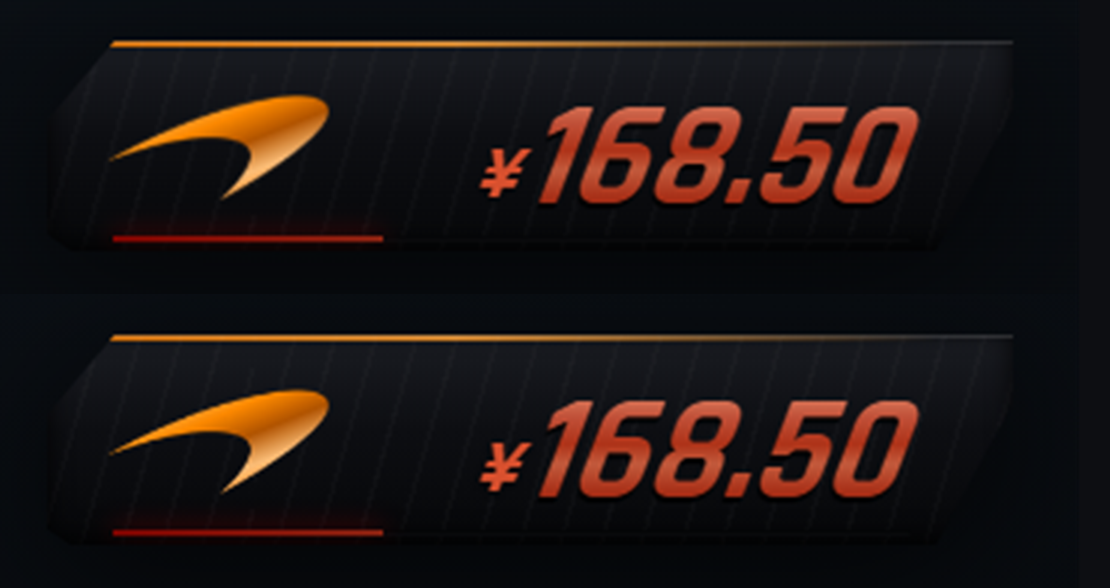
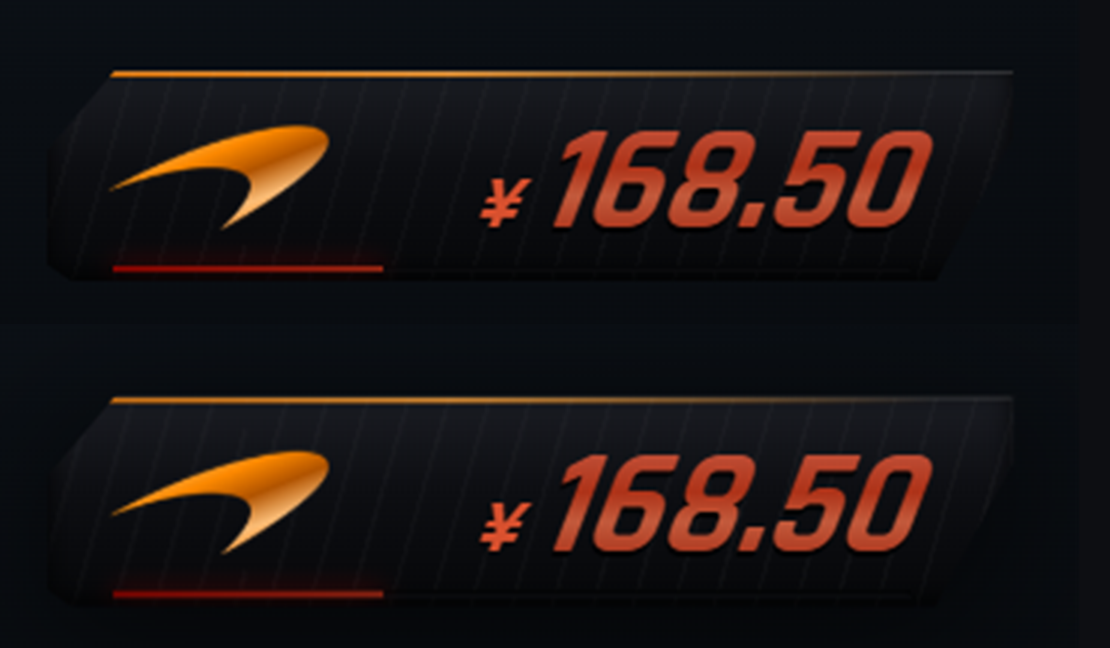
fix(digits): 挖到根因 —— 数字改用 SVG 渐变文字
根因不是数字元素本身，而是祖先元素：
  面板根部有 filter: drop-shadow(...) 和入场 transform，
  .g-num 还有 skewX(-21deg)。这些都会让子元素进入独立合成层，
  而 background-clip:text 在独立层里会被 Chromium 渲染成暗色。
  之前几轮只清数字元素自己的 filter/text-shadow，所以反复复发。

修法（两层保险）：
1. 数字改为 SVG <text> + <linearGradient> 填充，由 SVG 光栅化器绘制，
   完全不受祖先合成层影响（附敌对环境测试图 docs/digits-check.png）
2. 面板根部移除 filter 与入场 transform，只保留 opacity 过渡

防回归脚本升级：禁止 background-clip:text、要求 SVG 渐变、
禁止根部出现 filter/transform（对比注释内容会先剥离）

diff --git a/lib/client.js b/lib/client.js
@@ -1144,65 +1144,117 @@ window.__ModuleLoader__.load({
 		/* ------------------------------------------------------------------ */
 		/* 金额数字（金属质感）                                                */
 		/* ------------------------------------------------------------------ */
+		/*
+		 * 渲染方式：SVG <text> + <linearGradient> 填充。
+		 *
+		 * 为什么不用 background-clip:text：
+		 *   那个特性依赖「文字作为蒙版裁剪背景」的合成路径，只要任一祖先元素带
+		 *   filter / transform / opacity / 混合模式，Chromium 就会把它渲染成暗色
+		 *   甚至不可见。面板根部有投影 filter、.g-num 有 skew 变换，正好命中。
+		 *   SVG 的渐变填充由 SVG 光栅化器直接绘制，不受祖先合成影响。
+		 */
+		const SVG_NS = 'http://www.w3.org/2000/svg';
+		const AMOUNT_GRAD_ID = 'gGaugeAmountGrad';
+		const AMOUNT_STOPS = [
+		  ['0%', '#d97a5c'],
+		  ['18%', '#c05038'],
+		  ['40%', '#ad3218'],
+		  ['56%', '#c25a3c'],
+		  ['78%', '#a83018'],
+		  ['100%', '#8d1c0c'],
+		];
+
 		BADGE.elements.amount = {
 		  css(id) {
 		    return `
-		/* 数字完全不用 filter / text-shadow：
-		 * Chromium 在「background-clip:text + filter」组合下会把渐变文字渲染成暗色，
-		 * 阴影改由 ::before 复制一层暗色文字实现（偏移 1.5px，落在背后）。 */
 		#${id} .g-val {
 		  position: relative; display: inline-block;
-		  font-family: 'GaugeRacingCondensed', ui-sans-serif, system-ui, "Segoe UI", Arial, sans-serif;
-		  font-style: normal; font-weight: 700;
-		  font-size: 48px; line-height: .86;
-		  letter-spacing: -.2px;
+		  font-style: normal;
 		  padding-right: 4px;
-		  background: linear-gradient(180deg,
-		    #d97a5c 0%, #c05038 18%, #ad3218 40%,
-		    #c25a3c 56%, #a83018 78%, #8d1c0c 100%);
-		  -webkit-background-clip: text;
-		  background-clip: text;
-		  color: #c20800;
-		  -webkit-text-fill-color: transparent;
-		  text-shadow: none;
-		  filter: none;
 		}
-		#${id} .g-val::before {
-		  content: attr(data-v);
-		  position: absolute; left: 0; top: 1.5px;
-		  z-index: -1; pointer-events: none;
-		  background: none;
-		  color: rgba(0,0,0,.8);
-		  -webkit-text-fill-color: rgba(0,0,0,.8);
-		  text-shadow: none;
+		/* 用一份隐藏的文字占位，保证布局尺寸和字宽完全正确 */
+		#${id} .g-val-ghost {
+		  display: block; white-space: pre; visibility: hidden;
+		  font-family: 'GaugeRacingCondensed', ui-sans-serif, system-ui, "Segoe UI", Arial, sans-serif;
+		  font-weight: 700; font-size: 48px; line-height: .86; letter-spacing: -.2px;
 		}
-		/* 兜底：万一环境不支持 background-clip:text，退回实色，绝不显示成暗块 */
-		@supports not ((-webkit-background-clip: text) or (background-clip: text)) {
-		  #${id} .g-val {
-		    background: none;
-		    color: #d0432a;
-		    -webkit-text-fill-color: #d0432a;
-		  }
+		/* SVG 覆盖在占位文字之上：渐变直接由 SVG 画出来 */
+		#${id} .g-val-svg {
+		  position: absolute; left: 0; top: 0;
+		  width: 100%; height: 100%;
+		  overflow: visible; pointer-events: none;
 		}
+		#${id} .g-val-svg text {
+		  font-family: 'GaugeRacingCondensed', ui-sans-serif, system-ui, "Segoe UI", Arial, sans-serif;
+		  font-weight: 700; font-size: 48px; letter-spacing: -.2px;
+		  text-anchor: end;
+		}
+		#${id} .g-val-svg .g-num-shadow { fill: rgba(0,0,0,.8); }
+		#${id} .g-val-svg .g-num-main { fill: url(#${AMOUNT_GRAD_ID}); }
 		#${id}.g-dim .g-val { opacity: .45; }`;
 		  },
 
 		  mount(parts) {
-		    const el = document.createElement('span');
-		    el.className = 'g-val';
-		    el.textContent = '—';
-		    BADGE.numWrap(parts).appendChild(el);
-		    return el;
+		    const wrap = document.createElement('span');
+		    wrap.className = 'g-val';
+
+		    const ghost = document.createElement('span');
+		    ghost.className = 'g-val-ghost';
+		    ghost.textContent = '—';
+
+		    const svg = document.createElementNS(SVG_NS, 'svg');
+		    svg.setAttribute('class', 'g-val-svg');
+
+		    const defs = document.createElementNS(SVG_NS, 'defs');
+		    const grad = document.createElementNS(SVG_NS, 'linearGradient');
+		    grad.setAttribute('id', AMOUNT_GRAD_ID);
+		    grad.setAttribute('x1', '0');
+		    grad.setAttribute('y1', '0');
+		    grad.setAttribute('x2', '0');
+		    grad.setAttribute('y2', '1');
+		    for (const [offset, color] of AMOUNT_STOPS) {
+		      const stop = document.createElementNS(SVG_NS, 'stop');
+		      stop.setAttribute('offset', offset);
+		      stop.setAttribute('stop-color', color);
+		      grad.appendChild(stop);
+		    }
+		    defs.appendChild(grad);
+		    svg.appendChild(defs);
+
+		    const shadow = document.createElementNS(SVG_NS, 'text');
+		    shadow.setAttribute('class', 'g-num-shadow');
+		    const main = document.createElementNS(SVG_NS, 'text');
+		    main.setAttribute('class', 'g-num-main');
+		    svg.appendChild(shadow);
+		    svg.appendChild(main);
+
+		    wrap.appendChild(ghost);
+		    wrap.appendChild(svg);
+		    BADGE.numWrap(parts).appendChild(wrap);
+
+		    return { wrap, ghost, shadow, main };
 		  },
 
-		  update(el, view) {
+		  update(ref, view) {
 		    const text =
 		      view.state === 'ready' ? BADGE.formatAmount(view.total)
 		        : view.state === 'loading' ? '···'
 		          : '--';
-		    el.textContent = text;
-		    /* ::before 用它复制一份做投影 */
-		    el.dataset.v = text;
+
+		    ref.ghost.textContent = text;
+		    ref.shadow.textContent = text;
+		    ref.main.textContent = text;
+
+		    /* 基线位置按占位文字的实际高度推算，右对齐到容器右缘 */
+		    const place = () => {
+		      const h = ref.ghost.getBoundingClientRect().height || 41;
+		      const y = Math.round(h * 0.78);
+		      for (const t of [ref.shadow, ref.main]) t.setAttribute('x', '100%');
+		      ref.main.setAttribute('y', String(y));
+		      ref.shadow.setAttribute('y', String(y + 1.6));
+		    };
+		    place();
+		    requestAnimationFrame(place);
 		  },
 		};
 
@@ -1271,12 +1323,13 @@ window.__ModuleLoader__.load({
 		  z-index: 2147483000; user-select: none;
 		  cursor: grab; touch-action: none;
 		  font-family: ui-sans-serif, system-ui, "Segoe UI", "PingFang SC", "Microsoft YaHei", sans-serif;
-		  filter: drop-shadow(0 10px 24px rgba(0,0,0,.65));
-		  opacity: 0; transform: translateY(8px) scale(.97);
-		  transition: opacity .5s ease, transform .5s cubic-bezier(.2,.8,.2,1);
+		  opacity: 0;
+		  /* 注意：这里不能加 filter / transform —— 它们会让子元素进入独立合成层，
+		     历史上的「数字变暗」和「标志发灰」都是这个引起的 */
+		  transition: opacity .5s ease;
 		}
 		#${id}.g-on { opacity: 1; transform: none; }
-		#${id}.g-dragging { cursor: grabbing; filter: drop-shadow(0 16px 32px rgba(0,0,0,.8)); }
+		#${id}.g-dragging { cursor: grabbing; }
 
 		#${id} .g-content {
 		  position: absolute; inset: 0;

diff --git a/src/40-elements.js b/src/40-elements.js
@@ -61,65 +61,117 @@ BADGE.elements.currency = {
 /* ------------------------------------------------------------------ */
 /* 金额数字（金属质感）                                                */
 /* ------------------------------------------------------------------ */
+/*
+ * 渲染方式：SVG <text> + <linearGradient> 填充。
+ *
+ * 为什么不用 background-clip:text：
+ *   那个特性依赖「文字作为蒙版裁剪背景」的合成路径，只要任一祖先元素带
+ *   filter / transform / opacity / 混合模式，Chromium 就会把它渲染成暗色
+ *   甚至不可见。面板根部有投影 filter、.g-num 有 skew 变换，正好命中。
+ *   SVG 的渐变填充由 SVG 光栅化器直接绘制，不受祖先合成影响。
+ */
+const SVG_NS = 'http://www.w3.org/2000/svg';
+const AMOUNT_GRAD_ID = 'gGaugeAmountGrad';
+const AMOUNT_STOPS = [
+  ['0%', '#d97a5c'],
+  ['18%', '#c05038'],
+  ['40%', '#ad3218'],
+  ['56%', '#c25a3c'],
+  ['78%', '#a83018'],
+  ['100%', '#8d1c0c'],
+];
+
 BADGE.elements.amount = {
   css(id) {
     return `
-/* 数字完全不用 filter / text-shadow：
- * Chromium 在「background-clip:text + filter」组合下会把渐变文字渲染成暗色，
- * 阴影改由 ::before 复制一层暗色文字实现（偏移 1.5px，落在背后）。 */
 #${id} .g-val {
   position: relative; display: inline-block;
-  font-family: 'GaugeRacingCondensed', ui-sans-serif, system-ui, "Segoe UI", Arial, sans-serif;
-  font-style: normal; font-weight: 700;
-  font-size: 48px; line-height: .86;
-  letter-spacing: -.2px;
+  font-style: normal;
   padding-right: 4px;
-  background: linear-gradient(180deg,
-    #d97a5c 0%, #c05038 18%, #ad3218 40%,
-    #c25a3c 56%, #a83018 78%, #8d1c0c 100%);
-  -webkit-background-clip: text;
-  background-clip: text;
-  color: #c20800;
-  -webkit-text-fill-color: transparent;
-  text-shadow: none;
-  filter: none;
 }
-#${id} .g-val::before {
-  content: attr(data-v);
-  position: absolute; left: 0; top: 1.5px;
-  z-index: -1; pointer-events: none;
-  background: none;
-  color: rgba(0,0,0,.8);
-  -webkit-text-fill-color: rgba(0,0,0,.8);
-  text-shadow: none;
+/* 用一份隐藏的文字占位，保证布局尺寸和字宽完全正确 */
+#${id} .g-val-ghost {
+  display: block; white-space: pre; visibility: hidden;
+  font-family: 'GaugeRacingCondensed', ui-sans-serif, system-ui, "Segoe UI", Arial, sans-serif;
+  font-weight: 700; font-size: 48px; line-height: .86; letter-spacing: -.2px;
 }
-/* 兜底：万一环境不支持 background-clip:text，退回实色，绝不显示成暗块 */
-@supports not ((-webkit-background-clip: text) or (background-clip: text)) {
-  #${id} .g-val {
-    background: none;
-    color: #d0432a;
-    -webkit-text-fill-color: #d0432a;
-  }
+/* SVG 覆盖在占位文字之上：渐变直接由 SVG 画出来 */
+#${id} .g-val-svg {
+  position: absolute; left: 0; top: 0;
+  width: 100%; height: 100%;
+  overflow: visible; pointer-events: none;
 }
+#${id} .g-val-svg text {
+  font-family: 'GaugeRacingCondensed', ui-sans-serif, system-ui, "Segoe UI", Arial, sans-serif;
+  font-weight: 700; font-size: 48px; letter-spacing: -.2px;
+  text-anchor: end;
+}
+#${id} .g-val-svg .g-num-shadow { fill: rgba(0,0,0,.8); }
+#${id} .g-val-svg .g-num-main { fill: url(#${AMOUNT_GRAD_ID}); }
 #${id}.g-dim .g-val { opacity: .45; }`;
   },
 
   mount(parts) {
-    const el = document.createElement('span');
-    el.className = 'g-val';
-    el.textContent = '—';
-    BADGE.numWrap(parts).appendChild(el);
-    return el;
+    const wrap = document.createElement('span');
+    wrap.className = 'g-val';
+
+    const ghost = document.createElement('span');
+    ghost.className = 'g-val-ghost';
+    ghost.textContent = '—';
+
+    const svg = document.createElementNS(SVG_NS, 'svg');
+    svg.setAttribute('class', 'g-val-svg');
+
+    const defs = document.createElementNS(SVG_NS, 'defs');
+    const grad = document.createElementNS(SVG_NS, 'linearGradient');
+    grad.setAttribute('id', AMOUNT_GRAD_ID);
+    grad.setAttribute('x1', '0');
+    grad.setAttribute('y1', '0');
+    grad.setAttribute('x2', '0');
+    grad.setAttribute('y2', '1');
+    for (const [offset, color] of AMOUNT_STOPS) {
+      const stop = document.createElementNS(SVG_NS, 'stop');
+      stop.setAttribute('offset', offset);
+      stop.setAttribute('stop-color', color);
+      grad.appendChild(stop);
+    }
+    defs.appendChild(grad);
+    svg.appendChild(defs);
+
+    const shadow = document.createElementNS(SVG_NS, 'text');
+    shadow.setAttribute('class', 'g-num-shadow');
+    const main = document.createElementNS(SVG_NS, 'text');
+    main.setAttribute('class', 'g-num-main');
+    svg.appendChild(shadow);
+    svg.appendChild(main);
+
+    wrap.appendChild(ghost);
+    wrap.appendChild(svg);
+    BADGE.numWrap(parts).appendChild(wrap);
+
+    return { wrap, ghost, shadow, main };
   },
 
-  update(el, view) {
+  update(ref, view) {
     const text =
       view.state === 'ready' ? BADGE.formatAmount(view.total)
         : view.state === 'loading' ? '···'
           : '--';
-    el.textContent = text;
-    /* ::before 用它复制一份做投影 */
-    el.dataset.v = text;
+
+    ref.ghost.textContent = text;
+    ref.shadow.textContent = text;
+    ref.main.textContent = text;
+
+    /* 基线位置按占位文字的实际高度推算，右对齐到容器右缘 */
+    const place = () => {
+      const h = ref.ghost.getBoundingClientRect().height || 41;
+      const y = Math.round(h * 0.78);
+      for (const t of [ref.shadow, ref.main]) t.setAttribute('x', '100%');
+      ref.main.setAttribute('y', String(y));
+      ref.shadow.setAttribute('y', String(y + 1.6));
+    };
+    place();
+    requestAnimationFrame(place);
   },
 };
 

diff --git a/src/50-render.js b/src/50-render.js
@@ -24,12 +24,13 @@ BADGE.baseCss = function baseCss(id, cfg) {
   z-index: 2147483000; user-select: none;
   cursor: grab; touch-action: none;
   font-family: ui-sans-serif, system-ui, "Segoe UI", "PingFang SC", "Microsoft YaHei", sans-serif;
-  filter: drop-shadow(0 10px 24px rgba(0,0,0,.65));
-  opacity: 0; transform: translateY(8px) scale(.97);
-  transition: opacity .5s ease, transform .5s cubic-bezier(.2,.8,.2,1);
+  opacity: 0;
+  /* 注意：这里不能加 filter / transform —— 它们会让子元素进入独立合成层，
+     历史上的「数字变暗」和「标志发灰」都是这个引起的 */
+  transition: opacity .5s ease;
 }
 #${id}.g-on { opacity: 1; transform: none; }
-#${id}.g-dragging { cursor: grabbing; filter: drop-shadow(0 16px 32px rgba(0,0,0,.8)); }
+#${id}.g-dragging { cursor: grabbing; }
 
 #${id} .g-content {
   position: absolute; inset: 0;

diff --git a/preview.html b/preview.html
@@ -105,6 +105,16 @@
   if (new URLSearchParams(location.search).get('run')) {
     setTimeout(() => { if (window.__runDrive) window.__runDrive(); }, 500);
   }
+  /* 测试用：给面板祖先强行加上 filter/transform，验证数字是否还会变暗 */
+  if (new URLSearchParams(location.search).get('hostile')) {
+    setTimeout(() => {
+      const root = document.getElementById('dsh-corner-gauge');
+      if (!root) return;
+      root.style.filter = 'drop-shadow(0 10px 24px rgba(0,0,0,.65))';
+      root.style.transform = 'translateY(0.5px) scale(0.999)';
+    }, 600);
+  }
+
   if (freeze > 0) {
     setTimeout(() => {
       /* 按配置选车 + 定格在指定毫秒（不触发计时器） */
